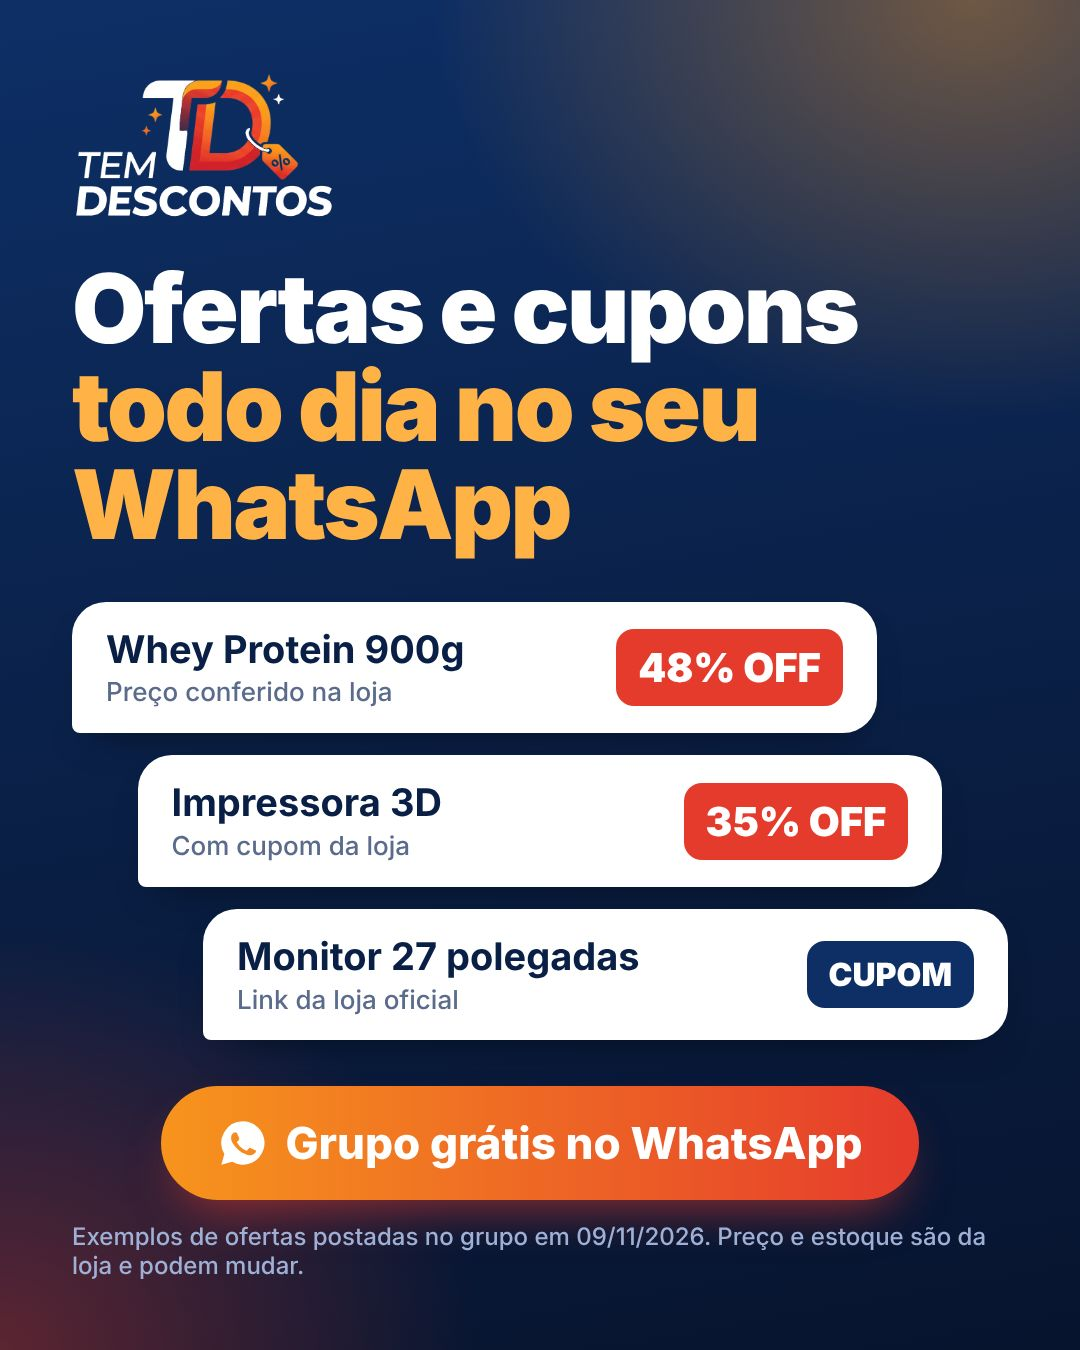
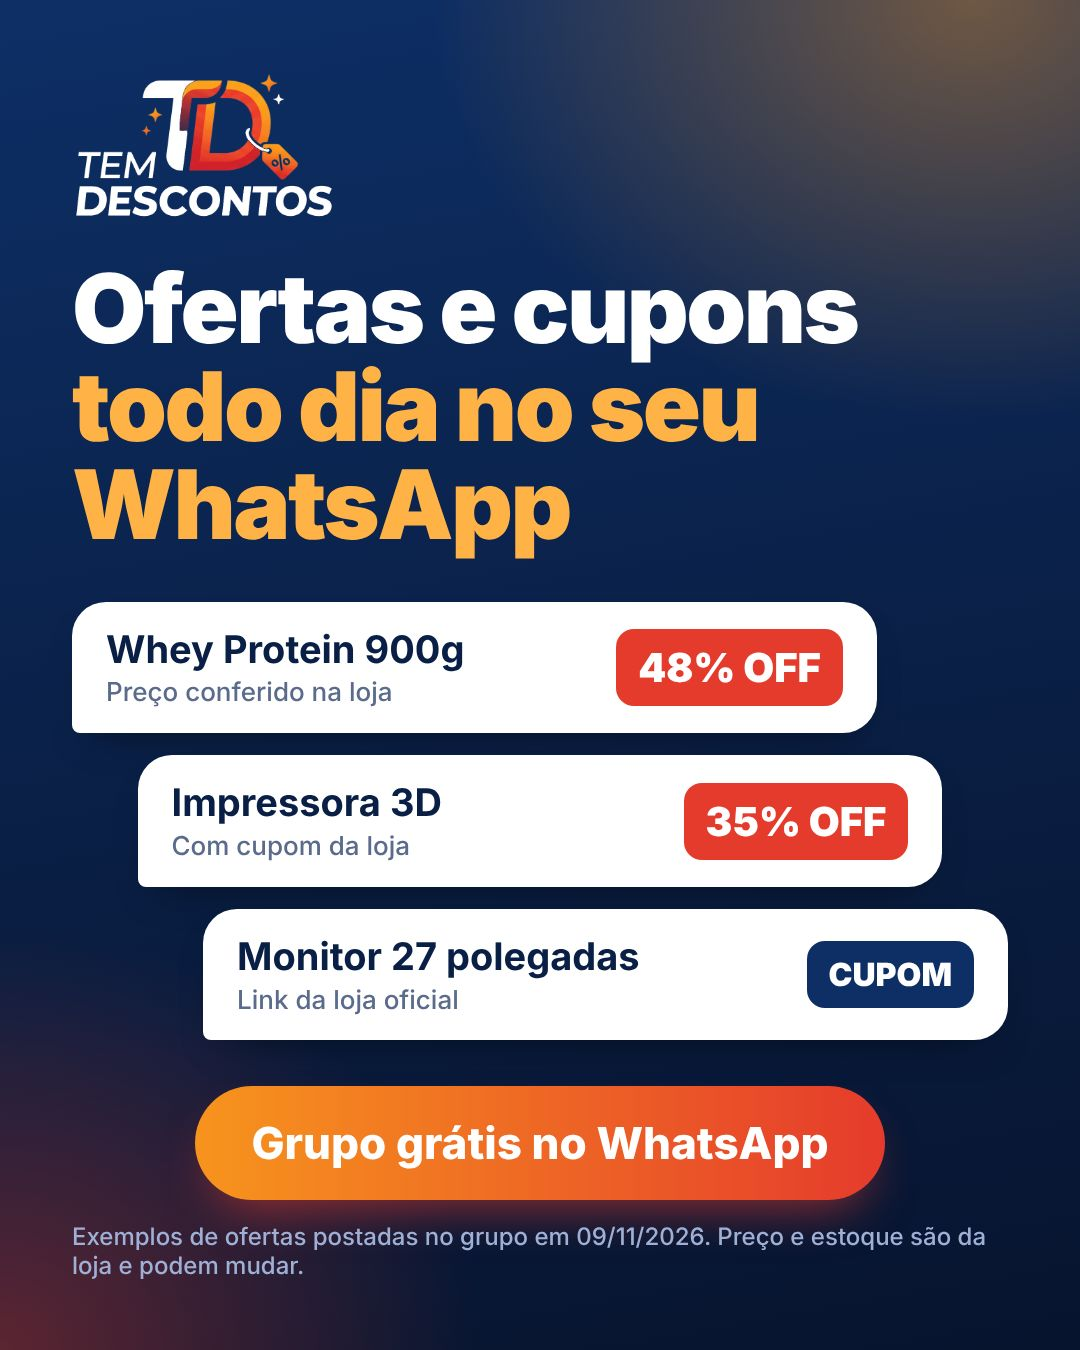
Anuncios: criativos sem nome de loja e sem icone do WhatsApp
Claude-Session: https://claude.ai/code/session_01AzRaioEWVift5RoPR7mM1i

Changed region(s): [[0.1528, 0.7778, 0.8556, 0.9022]]

diff --git a/marketing/anuncios/a2.html b/marketing/anuncios/a2.html
@@ -14,5 +14,5 @@ li i { width: 54px; height: 54px; border-radius: 50%; background: #0d2f66; color
 <img class="logo" src="../../site/marca/tem-descontos.png" style="height:210px;margin:-30px 0 -20px -30px">
 <h1>Promoção de verdade, <b>conferida na loja</b></h1>
 <p class="sub">Antes de postar, a gente abre a página da loja e confere o preço. Só entra no grupo o que passou.</p>
-<ul><li><i>✓</i>Amazon, Mercado Livre, Shopee e Magalu</li><li><i>✓</i>Grátis, sem cadastro</li><li><i>✓</i>Só os administradores postam</li></ul>
-<div class="fim"><div class="pill"><svg viewBox="0 0 24 24"><path d="M12 2a10 10 0 0 0-8.6 15.1L2 22l5-1.3A10 10 0 1 0 12 2zm5.8 14.2c-.2.7-1.4 1.3-1.9 1.4-.5.1-1.1.1-1.8-.1-.4-.1-1-.3-1.6-.6-2.900-1.200-4.700-4.100-4.900-4.300-.1-.2-1.100-1.500-1.100-2.900s.7-2 1-2.300c.2-.300.5-.300.7-.300h.5c.2 0 .4 0 .6.500l.9 2.100c.1.200.1.400 0 .600l-.300.500-.5.500c-.2.200-.3.300-.1.600.2.300.8 1.300 1.700 2.100 1.200 1 2.100 1.400 2.400 1.500.3.100.5.100.6-.100l.8-1c.2-.300.4-.200.6-.100l2 .900c.300.100.5.200.5.300.100.200.100.700-.100 1.200z"/></svg> Entrar no grupo grátis</div><p class="nota">Link de afiliado. Preço e estoque são da loja e podem mudar.</p></div>
+<ul><li><i>✓</i>Das maiores lojas do Brasil</li><li><i>✓</i>Grátis, sem cadastro</li><li><i>✓</i>Só os administradores postam</li></ul>
+<div class="fim"><div class="pill">Entrar no grupo grátis</div><p class="nota">Link de afiliado. Preço e estoque são da loja e podem mudar.</p></div>

diff --git a/marketing/anuncios/a1.html b/marketing/anuncios/a1.html
@@ -20,5 +20,5 @@ h1 b { color: #ffb347; font-weight: 900; }
   <div class="msg"><p>Impressora 3D<small>Com cupom da loja</small></p><span class="tag">35% OFF</span></div>
   <div class="msg"><p>Monitor 27 polegadas<small>Link da loja oficial</small></p><span class="tag c">CUPOM</span></div>
 </div>
-<div class="fim"><div class="pill"><svg viewBox="0 0 24 24"><path d="M12 2a10 10 0 0 0-8.6 15.1L2 22l5-1.3A10 10 0 1 0 12 2zm5.8 14.2c-.2.7-1.4 1.3-1.9 1.4-.5.1-1.1.1-1.8-.1-.4-.1-1-.3-1.6-.6-2.900-1.200-4.700-4.100-4.900-4.300-.1-.2-1.100-1.500-1.100-2.900s.7-2 1-2.300c.2-.300.5-.300.7-.300h.5c.2 0 .4 0 .6.500l.9 2.100c.1.200.1.400 0 .600l-.300.500-.5.500c-.2.200-.3.300-.1.600.2.300.8 1.300 1.700 2.100 1.200 1 2.100 1.400 2.400 1.500.3.100.5.100.6-.100l.8-1c.2-.300.4-.200.6-.100l2 .900c.300.100.5.200.5.300.100.200.100.700-.100 1.200z"/></svg> Grupo grátis no WhatsApp</div>
+<div class="fim"><div class="pill">Grupo grátis no WhatsApp</div>
 <p class="nota">Exemplos de ofertas postadas no grupo em 09/11/2026. Preço e estoque são da loja e podem mudar.</p></div>

diff --git a/marketing/anuncios/README.md b/marketing/anuncios/README.md
@@ -3,7 +3,8 @@
 - `a1.html` e `a2.html`: fonte dos criativos (1080x1350). Gerar o JPG com o Chromium (Playwright),
   captura da página em 1080x1350, qualidade 80.
 - Os JPG publicados ficam em `site/public/anuncios/` (a Meta baixa de lá na criação do anúncio).
-- Regras: sem preço exato, sem preço da Amazon, sem promessa nem urgência. Porcentagem só de
+- Regras (12/11/2026): sem nome de loja ("das maiores lojas do Brasil") e sem ícone do WhatsApp no
+  criativo; a palavra WhatsApp pode. Sem preço exato, sem preço da Amazon, sem promessa nem urgência. Porcentagem só de
   oferta que saiu de verdade no grupo, com a data na nota do rodapé.
 - Campanha `TD | Comunidade | Teste 01` (criada pausada em 09/11/2026): tráfego para
   `www.temdescontos.com.br/entrar?c=a1` e `?c=a2`. O clique no botão é contado pelo encurtador
